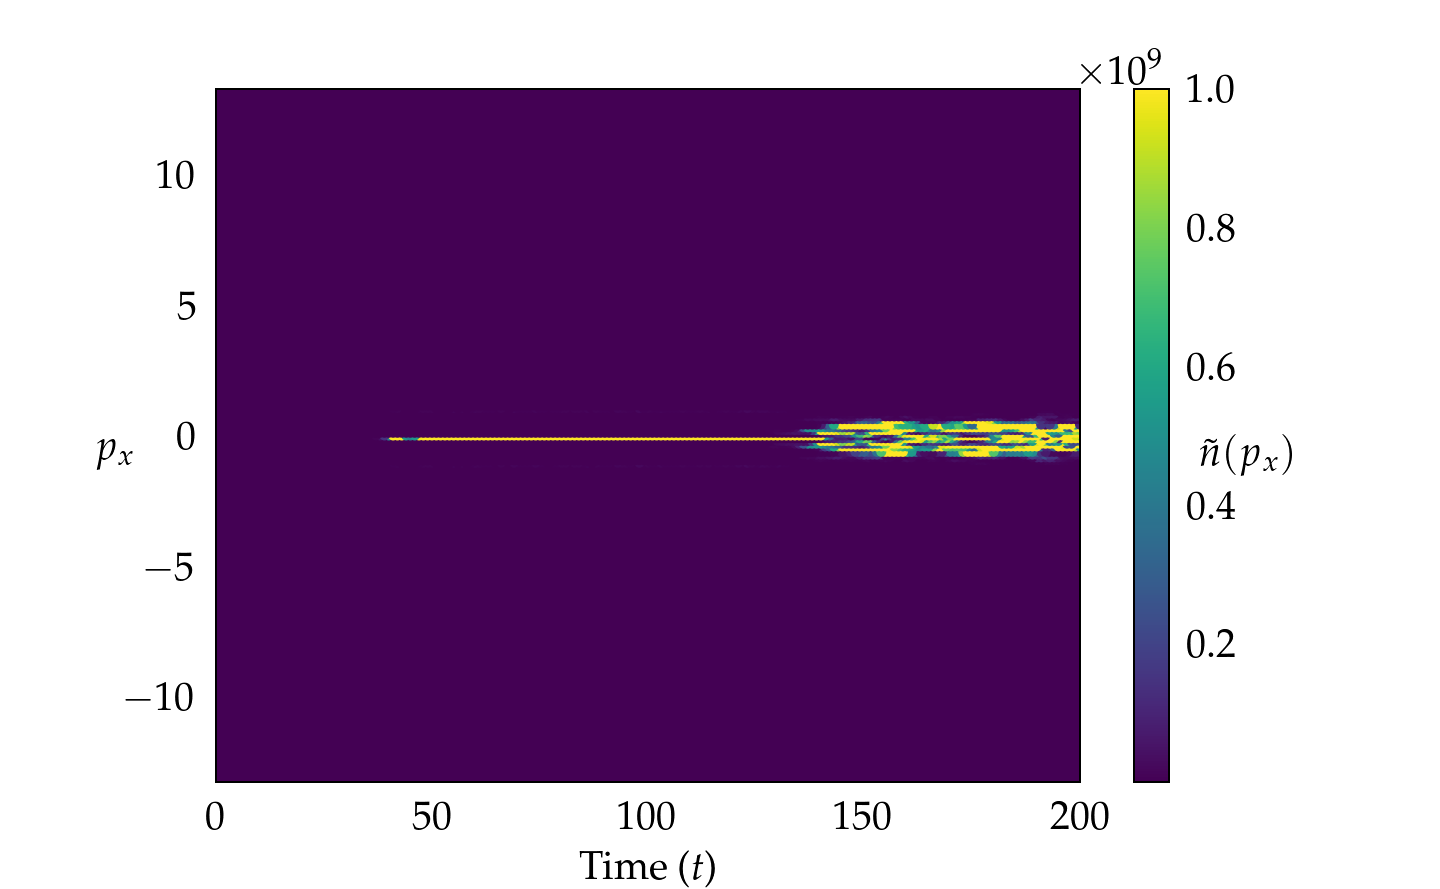
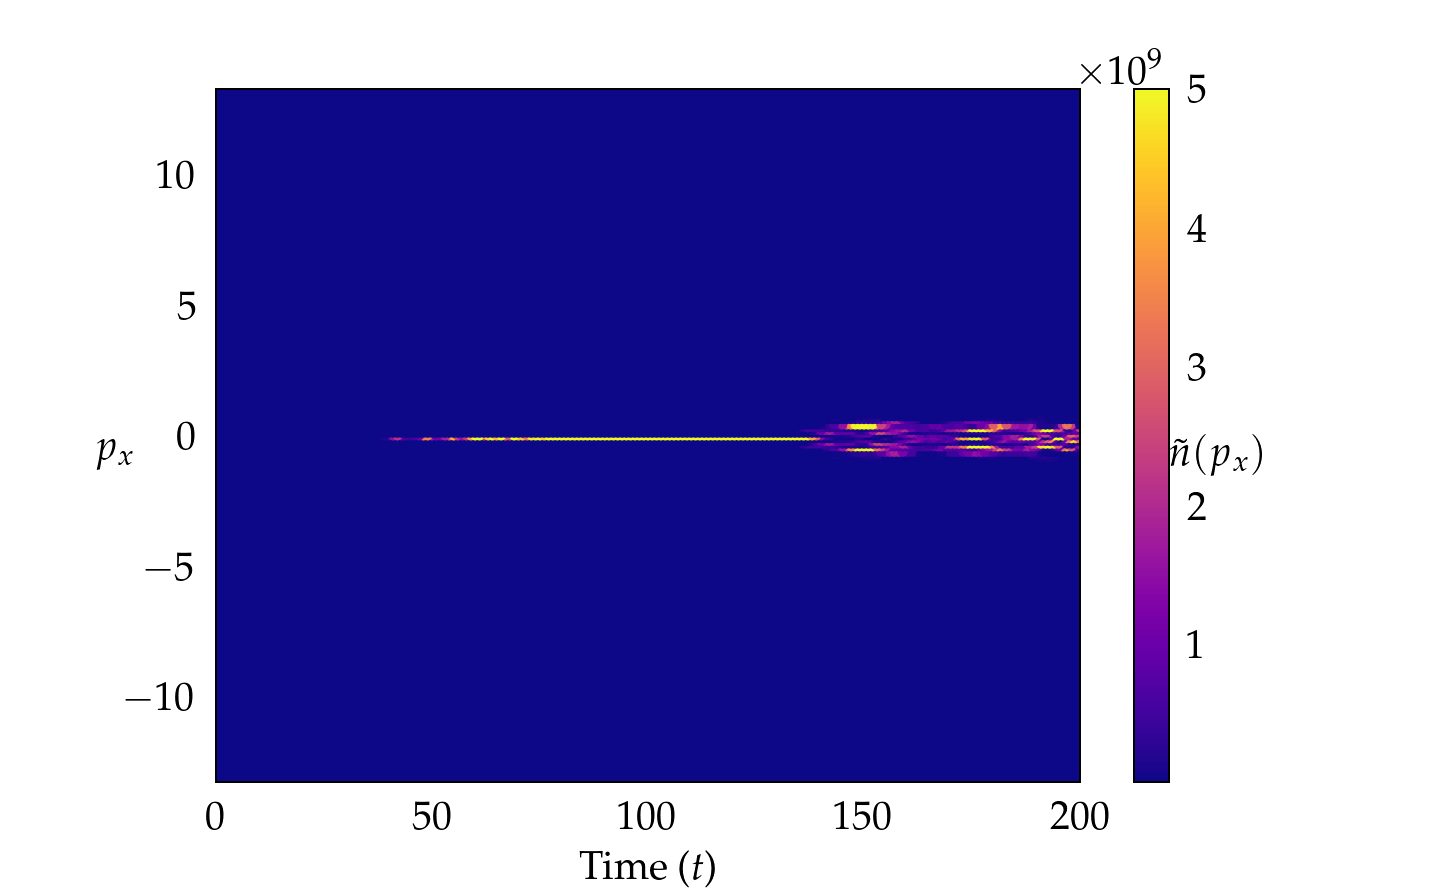
Create velocity profile

diff --git a/data/graph.py b/data/graph.py
@@ -15,15 +15,32 @@ from fig_config import (
 def main():
 
     #Create the images for density, phase, vel1 and vel2
-    create_images('dens')
-    create_images('phase')
+    #create_images('dens')
+    #create_images('phase')
     #create_images('vel2')
 
+    #Create the images for the velocity profile
+    plot_velocity_profile_allx()
+
     #Create the gif for density, phase, vel1 and vel2
-    make_gif('dens')
-    make_gif('phase')
-    #make_gif('vel1')
+    #make_gif('dens')
+    #make_gif('phase')
     #make_gif('vel2')
+
+    #Create the gif for the velocity profile
+    #gif_velocity_profile()
+
+    #Create the dataframe for the instability regime   
+    #instablity_regime_df()
+
+    #Plot the instability regime
+    #plot_instability_regime()
+
+    #Plot the instability regime for all px values
+    #plot_instability_allpx()
+
+    
+
 
 def create_images(folder_name):
 
@@ -41,7 +58,7 @@ def create_images(folder_name):
 
     files = sorted(glob.glob(folder_name + "-*.dat"), key=extract_number)
 
-    print(files)
+    #print(files)
 
     os.makedirs('images', exist_ok=True)
 
@@ -62,9 +79,11 @@ def create_images(folder_name):
 
 def extract_number(filename):
     # Regular expression to match the numerical part of the file name
-    match = re.search(r'\d+', filename)
+    match = re.search(r'-([0-9]+)', filename)
+
+    
     if match:
-        return int(match.group())
+        return (-1)*int(match.group())
     else:
         return -1  # Return -1 if no number found
 
@@ -148,20 +167,22 @@ def plot_graph_vel(file_name,max,min):
     plt.cla()
     plt.clf()
 
-def plot_velocity(file):
+def plot_velocity_profile(xprof,file):
 
     figure_features()
 
-    x , y , vx  = np.loadtxt(file, unpack=True)
+    x , y , vx , vy  = np.loadtxt(file, unpack=True)
 
     time = extract_number(file)
+
+    #print(time)
 
     # We want to plot y versus vx for a given value of x 
 
     for xnum in x:
         # Get the index of the x value
         
-        if xnum == 17.8125 :
+        if xnum == xprof :
             index = np.where(x == xnum)
             xlabel = xnum
             
@@ -172,14 +193,28 @@ def plot_velocity(file):
     plt.xlabel('$ y $')
     plt.title('t = ' + str(time))
     plt.legend()
-    plt.xlim(0,100)
-    plt.ylim()
+    plt.xlim(-17.5,17.5)
+    plt.ylim(-2.5,2.5)
     #plt.title('Velocity in x direction vs y')
-    plt.savefig('velocity.png')
+    plt.savefig('velocity_profile_x_'+ str(xprof)+'_'+str(file)+'.png')
     plt.figure().clear()
     plt.close()
     plt.cla()
     plt.clf()
+
+def plot_velocity_profile_allx():
+
+    os.chdir('vel2')
+
+    file_names = sorted(glob.glob('vel2-*.dat'), key=extract_number)
+                                  
+    for file in file_names:
+        plot_velocity_profile(17.8125,file)
+
+    os.chdir('..')
+
+
+
 
 def instablity_regime_df():
 
@@ -257,7 +292,7 @@ def plot_instability_regime():
     #print(instablity_regime_df['px'])
 
 
-    plt.scatter(instablity_regime_df['t'], instablity_regime_df['px'] ,c = abs(instablity_regime_df['psi_px'])**2 ,label = 'FT-x',s = 9,cmap = 'viridis', vmin= 1e4, vmax = 1e9)
+    plt.scatter(instablity_regime_df['t'], instablity_regime_df['px'] ,c = abs(instablity_regime_df['psi_px'])**2 ,label = 'FT-x',s = 9,cmap = 'plasma', vmin= 1e7, vmax = 5e9)
  
     plt.xlabel('Time ($t$)')
     plt.xlim(0, 200)
@@ -336,18 +371,27 @@ def plot_instability_allpx():
 
     os.chdir('..')
 
+def gif_velocity_profile():
+
+    os.chdir('vel2')
+
+    # Get the list of filenames matching the pattern sorted numerically
+    file_names = sorted(glob.glob('velocity_profile_x*.png'), key=extract_number)
+
+    # Open images in sorted order
+    frames = [Image.open(image) for image in file_names]
+
+    frame_one = frames[0]
+    frame_one.save('velocity_profile.gif', format="GIF", append_images=frames, save_all=True, duration=100, loop=0)
+    
+    os.chdir('..')
+
 
 
 
 if __name__ == '__main__':
-    #create_images()
-    #make_gif()
-    #main()
+    main() 
 
-    #instablity_regime_df()
-
-    plot_instability_regime()  
-    #plot_instability_allpx()
 
 
     
